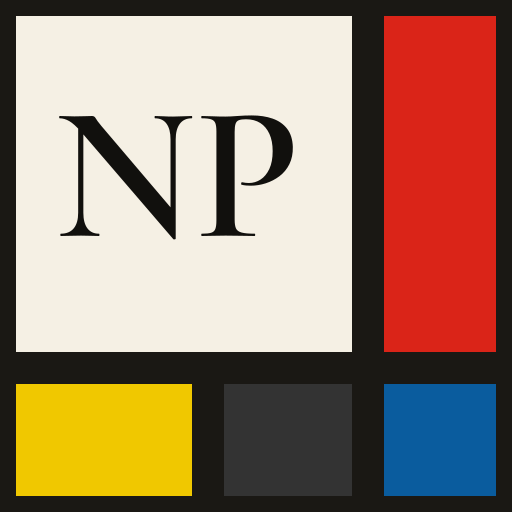
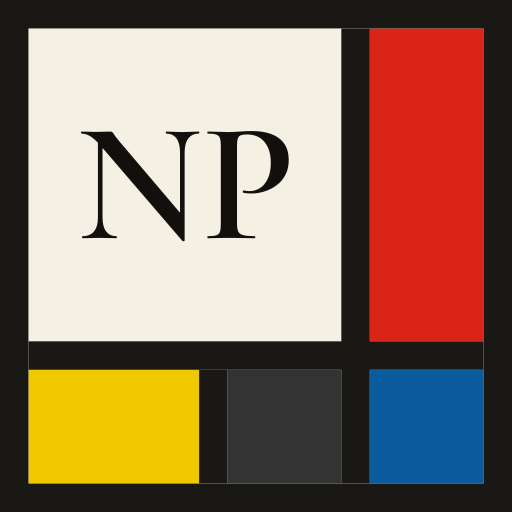
Keyline mark at the grid-line weight, and keyline lockups (#1372)
* Draw the keyline mark's frame at the grid-line weight

The keyline variant framed the tile with a 2-unit stroke inset over its
edge, half the weight of the mark's 4-unit interior grid lines, so it
read as a second, thinner line the system does not have. The frame is
now the grid line itself: 4 units, drawn outside the untouched 64-unit
tile on a 72-unit canvas, the way the homepage's outer frame is the same
line as its gridlines. An inset 4-unit frame was rejected: it would cut
the edge planes to 12 units and push the monogram off center.

- scripts/brand/build-logo-assets.mjs: keyBody translates the mark by 4
  and adds a 4-unit frame; iconSvg (concepts.mjs) takes its viewBox from
  size, so the other marks still render at 0 0 64 64.
- np-mark-keyline.svg and np-mark-keyline-512.png rebuilt from the
  committed np-mark.svg body, so the monogram is byte-identical to the
  shipped mark (a fresh font download could differ).
- /brand/ preview dimensions (72×72), its description, and the usage
  guide's keyline row follow.

* Add keyline versions of the three lockups

For cream pages, where the mark's cream field merges into the page, each
lockup now has a keyline version: np-lockup-horizontal-keyline.svg,
np-lockup-stacked-keyline.svg and np-lockup-compact-keyline.svg, with
transparent PNGs for the horizontal (800, 1600) and stacked (1200)
lockups, matching the plain lockups' transparent exports.

The framed keyline mark (72 units) is fitted into each lockup's 64-unit
[…]

diff --git a/src/lib/brand-assets.ts b/src/lib/brand-assets.ts
@@ -84,11 +84,11 @@ export const BRAND_FAMILIES: BrandFamily[] = [
     id: 'mark-keyline',
     title: 'Keyline mark',
     description:
-      'The mark framed by a thin ink keyline, only for cream or near-cream surfaces where the field would otherwise vanish. Not for avatars: a circular crop cuts the frame.',
+      'The mark framed by an ink keyline the weight of its grid lines, only for cream or near-cream surfaces where the field would otherwise vanish. Each lockup has a keyline version for the same surfaces. Not for avatars: a circular crop cuts the frame.',
     preview: {
       file: 'np-mark-keyline.svg',
-      width: 64,
-      height: 64,
+      width: 72,
+      height: 72,
       alt: 'The NP mark with an ink keyline',
     },
     files: [
@@ -116,7 +116,7 @@ export const BRAND_FAMILIES: BrandFamily[] = [
     id: 'lockup-horizontal',
     title: 'Horizontal lockup',
     description:
-      'The primary lockup: the mark, the name and NATHANPAYNE.COM beneath. Use it at 320px wide or more; below that the domain line stops being readable, so use the compact lockup, then the mark alone. The dark version sets the type in cream for dark backgrounds, and the transparent PNGs suit email signatures, documents and slides.',
+      'The primary lockup: the mark, the name and NATHANPAYNE.COM beneath. Use it at 320px wide or more; below that the domain line stops being readable, so use the compact lockup, then the mark alone. The dark version sets the type in cream for dark backgrounds, and the transparent PNGs suit email signatures, documents and slides. On a cream page, where the mark’s field would vanish, use the keyline version.',
     preview: {
       file: 'np-lockup-horizontal.svg',
       width: 394,
@@ -133,13 +133,16 @@ export const BRAND_FAMILIES: BrandFamily[] = [
       { file: 'np-lockup-horizontal-dark-1600.png', label: 'PNG dark 1600' },
       { file: 'np-lockup-horizontal-transparent-800.png', label: 'PNG transparent 800' },
       { file: 'np-lockup-horizontal-transparent-1600.png', label: 'PNG transparent 1600' },
+      { file: 'np-lockup-horizontal-keyline.svg', label: 'SVG keyline' },
+      { file: 'np-lockup-horizontal-keyline-transparent-800.png', label: 'PNG keyline 800' },
+      { file: 'np-lockup-horizontal-keyline-transparent-1600.png', label: 'PNG keyline 1600' },
     ],
   },
   {
     id: 'lockup-stacked',
     title: 'Stacked lockup',
     description:
-      'The mark above the name and domain, for square and portrait placements: social posts, slide title cards and print.',
+      'The mark above the name and domain, for square and portrait placements: social posts, slide title cards and print. The keyline version is for cream pages.',
     preview: {
       file: 'np-lockup-stacked.svg',
       width: 268,
@@ -153,20 +156,25 @@ export const BRAND_FAMILIES: BrandFamily[] = [
       { file: 'np-lockup-stacked-light-1200.png', label: 'PNG 1200' },
       { file: 'np-lockup-stacked-dark-1200.png', label: 'PNG dark 1200' },
       { file: 'np-lockup-stacked-transparent-1200.png', label: 'PNG transparent 1200' },
+      { file: 'np-lockup-stacked-keyline.svg', label: 'SVG keyline' },
+      { file: 'np-lockup-stacked-keyline-transparent-1200.png', label: 'PNG keyline 1200' },
     ],
   },
   {
     id: 'lockup-compact',
     title: 'Compact lockup',
     description:
-      'The mark and the name, without the domain, for placements between about 160px and 320px wide, where the domain line would be too small to read.',
+      'The mark and the name, without the domain, for placements between about 160px and 320px wide, where the domain line would be too small to read. The keyline version is for cream pages.',
     preview: {
       file: 'np-lockup-compact.svg',
       width: 402,
       height: 70,
       alt: 'The compact lockup: the NP mark beside the name Nathan Payne',
     },
-    files: [{ file: 'np-lockup-compact.svg', label: 'SVG' }],
+    files: [
+      { file: 'np-lockup-compact.svg', label: 'SVG' },
+      { file: 'np-lockup-compact-keyline.svg', label: 'SVG keyline' },
+    ],
   },
   {
     id: 'wordmark',

diff --git a/docs/brand-logo-usage.md b/docs/brand-logo-usage.md
@@ -22,7 +22,7 @@ Three variants exist for specific jobs:
 | File | Use |
 |------|-----|
 | `np-mark-tile.svg` | Below 24px (the 16px favicon). The monogram is dropped; the composition alone carries recognition. Never show this at a size where the monogram would be legible. |
-| `np-mark-keyline.svg` | Only on cream or near-cream surfaces where the field would otherwise vanish. A 2-unit ink keyline frames the tile. Do not use it for avatars; the circle crop cuts the frame. |
+| `np-mark-keyline.svg` | Only on cream or near-cream surfaces where the field would otherwise vanish. A 4-unit ink keyline, the same weight as the mark's interior grid lines, frames the tile from outside, the way the homepage's outer frame is the same line as its gridlines; the tile inside is unchanged, so the file is 72×72 units rather than 64. Do not use it for avatars; the circle crop cuts the frame. |
 | `np-mark-mono.svg` | One-color reproduction (print, engraving, grayscale UI). The planes become tints of the ink. |
 
 ## Lockups
@@ -35,6 +35,7 @@ Three variants exist for specific jobs:
 | `np-lockup-stacked.svg`, `-dark.svg`, `-mono.svg` | Stacked lockup for square and portrait placements (social posts, slide title cards, print). |
 | `np-wordmark.svg`, `np-wordmark-dark.svg` | Name and domain without the mark, for places where the mark already appears nearby. |
 | `np-lockup-compact.svg` | Mark and name only, name centered on the mark, for narrow placements where the eyebrow would be tiny. |
+| `np-lockup-horizontal-keyline.svg`, `np-lockup-stacked-keyline.svg`, `np-lockup-compact-keyline.svg` | Keyline versions of the three lockups, for cream or near-cream pages where the mark's field would vanish. The framed mark (`np-mark-keyline.svg`) is fitted into each lockup's mark slot, so the lockups keep their size and the type aligns to the frame's outer edge. Transparent PNGs: `np-lockup-horizontal-keyline-transparent-800.png` and `-1600.png`, `np-lockup-stacked-keyline-transparent-1200.png`. |
 | `np-google-workspace-lockup.svg` | The 320×132 Google Workspace frame itself: full-height mark on the left, the name on two lines beside it. Only for that frame. |
 
 Clear space around any lockup is the width of the red plane (one quarter of the mark's height). Do not recolor the planes, add gradients or shadows, rotate the mark, or set the name in another typeface. The one exception is the site itself: on site surfaces the mark follows the page register via the palette tokens, so it reads 1921 on interior pages; the exported files stay 1930.
@@ -50,7 +51,7 @@ Clear space around any lockup is the width of the red plane (one quarter of the 
 | Apple touch icon | `np-apple-touch-icon-180.png` | iOS rounds the corners itself; the file is square. Byte-identical to `np-mark-180.png`, which is the file the site's copy is checked against. |
 | PWA / Android icons | `np-mark-192.png`, `np-mark-512.png` | Linked in place from `public/site.webmanifest`. |
 | Account avatars (GitHub, LinkedIn, X, Bluesky, Slack, Threads) | `np-google-profile-720.png` or `np-mark-1024.png` | Square source; every platform crops to its own shape. |
-| Email signature, documents, slides | `np-lockup-horizontal-transparent-800.png` or `-1600.png` | Transparent PNG; `-light-` and `-dark-` versions have the background baked in. |
+| Email signature, documents, slides | `np-lockup-horizontal-transparent-800.png` or `-1600.png` | Transparent PNG; `-light-` and `-dark-` versions have the background baked in. On a cream page, use `np-lockup-horizontal-keyline-transparent-800.png` or `-1600.png`. |
 | Social post card | `np-social-1200x630.png` | Logo-only landscape card. This is not the site's Open Graph image; the built `/og/**` cards keep that role and carry the mark themselves. |
 | Square social image | `np-social-square-1080.png` | Stacked lockup on white. |
 
